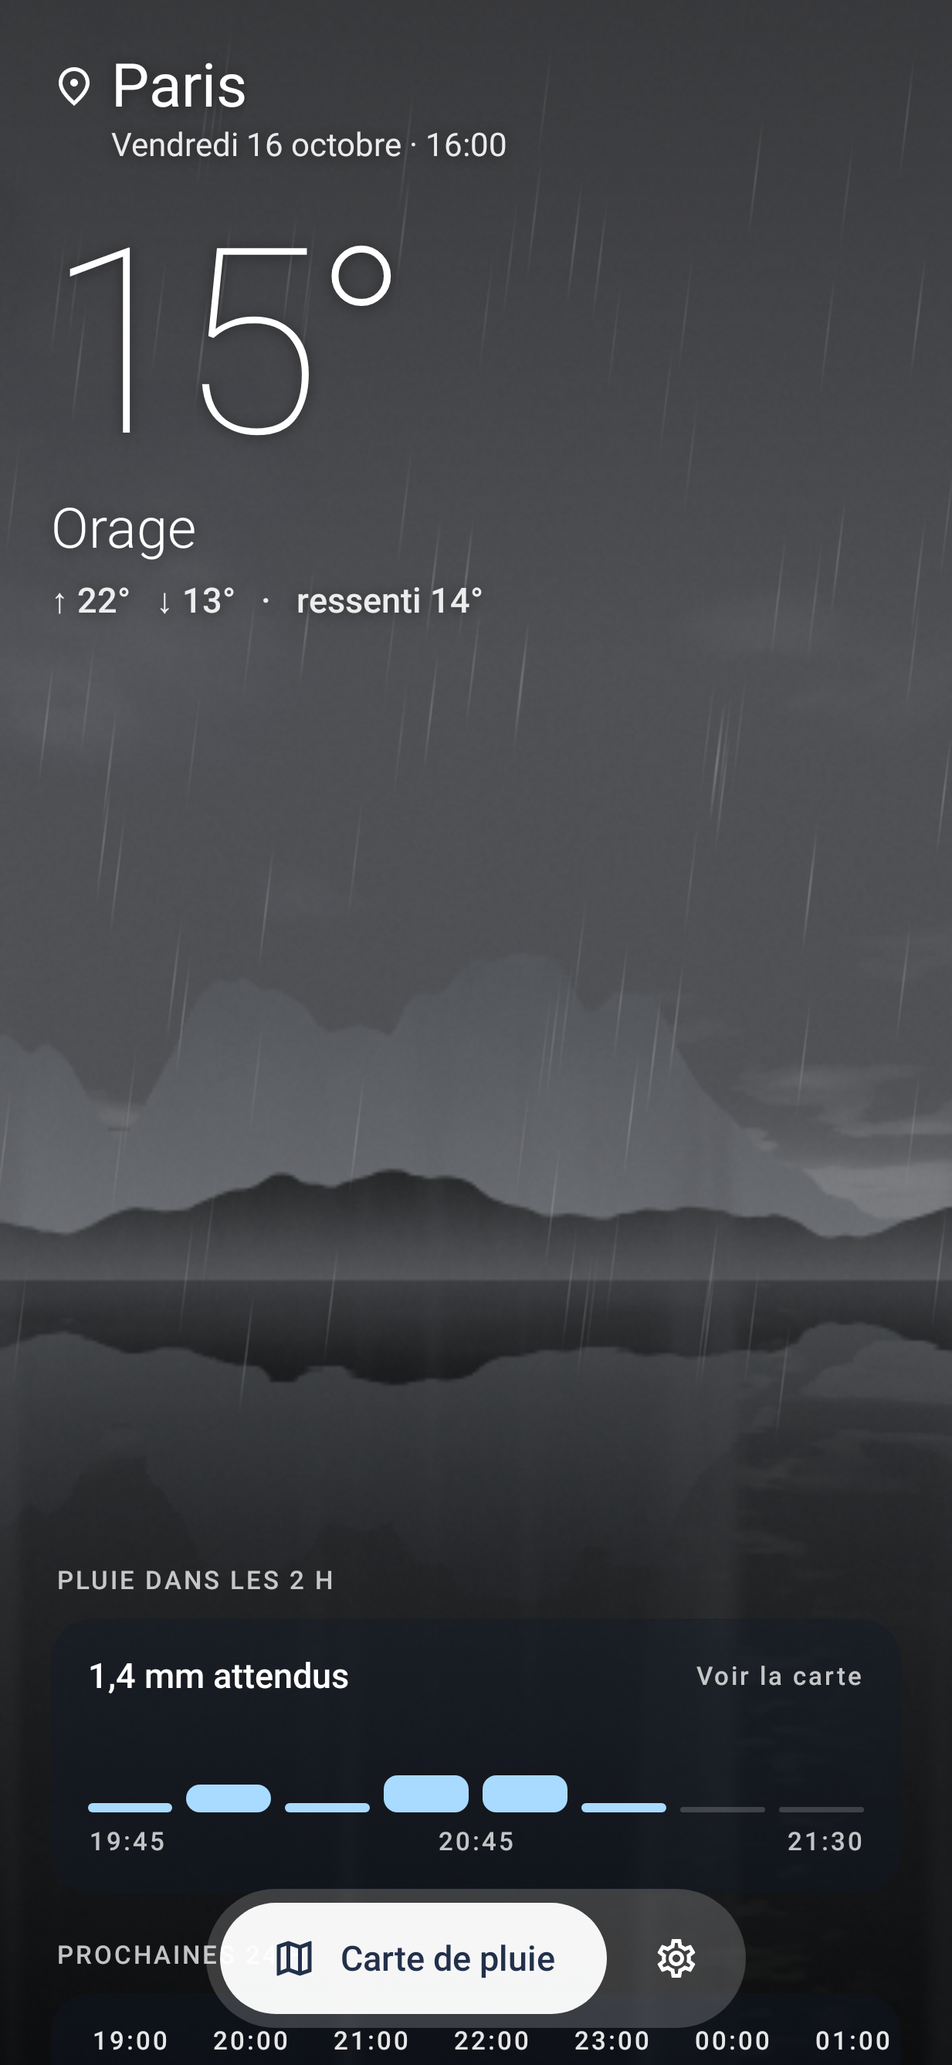
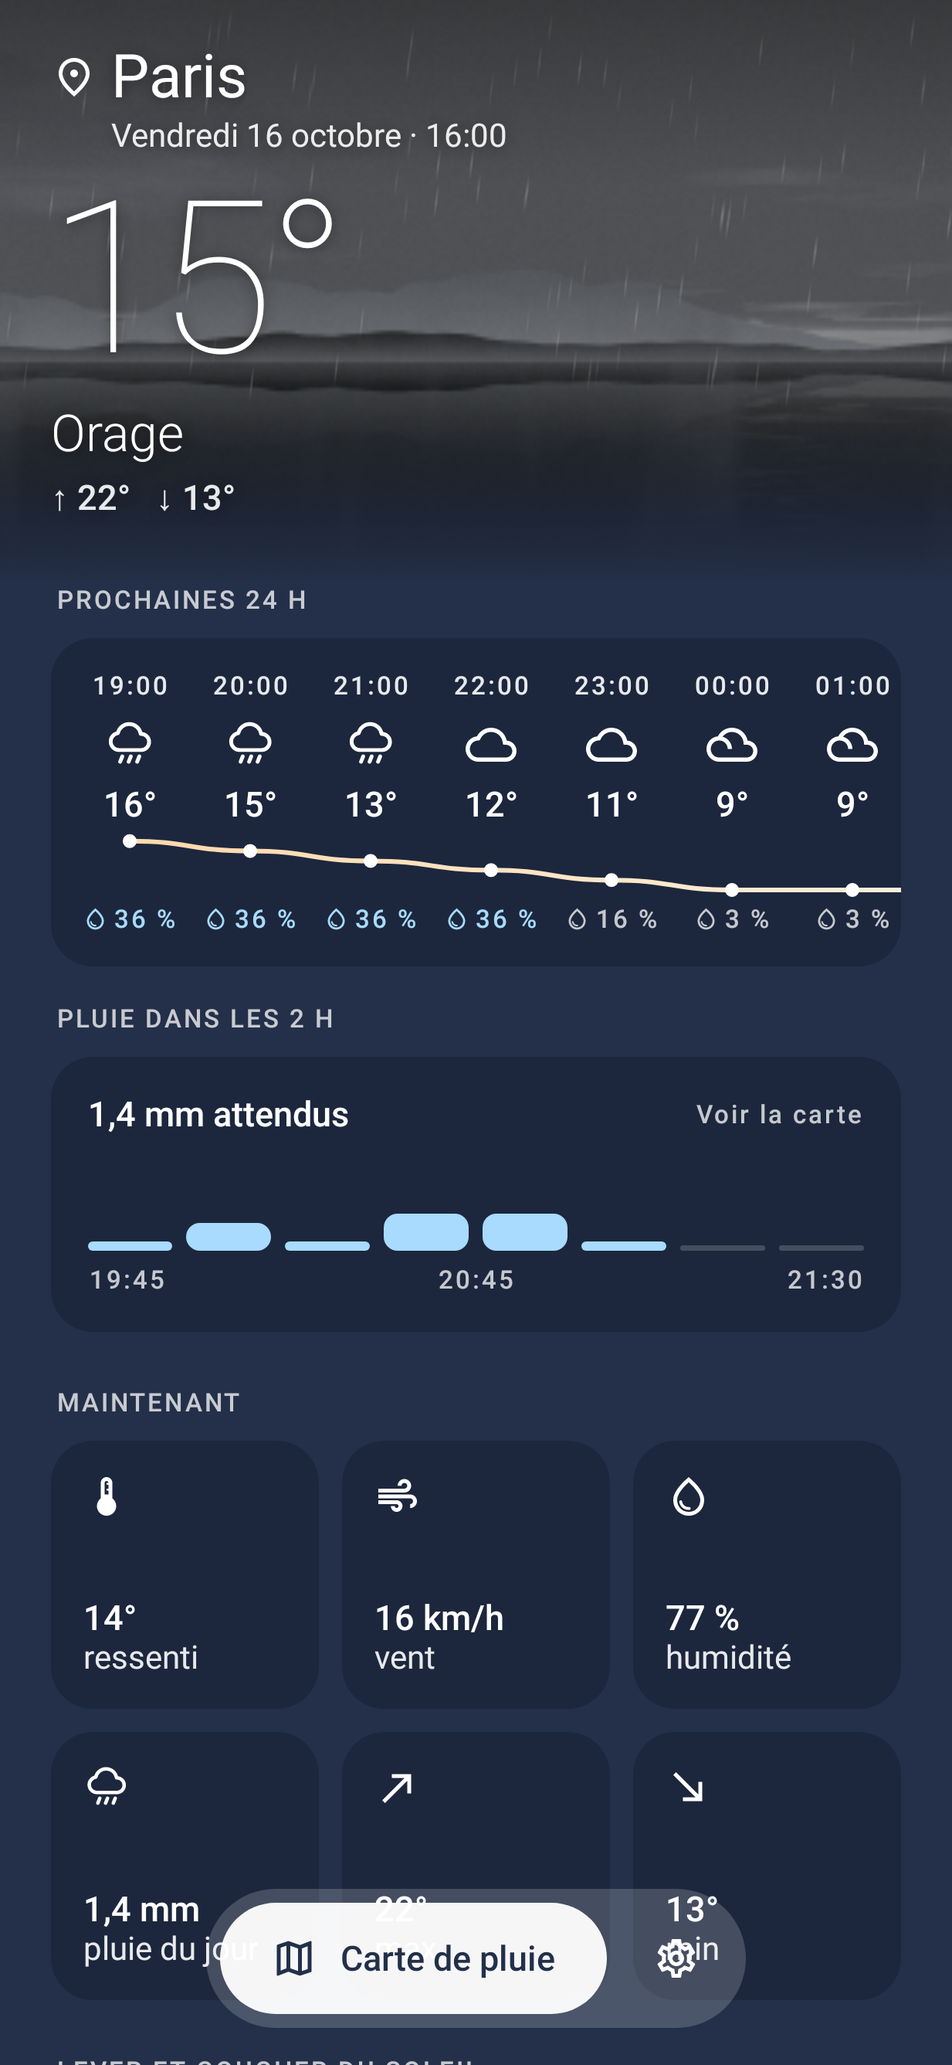
Thème Nature : paysage en bandeau d'en-tête, tuiles juste dessous
- plus de grand vide : la météo actuelle à gauche, montagnes et reflet dans le lac visibles à droite
- tuiles dans la même organisation que les autres thèmes, plus le lever et coucher du soleil

Claude-Session: https://claude.ai/code/session_01VhSL2CRbYz8j8n8SGyW4DJ

diff --git a/android-app/app/src/main/java/com/namm/meteo/ui/forecast/NatureForecast.kt b/android-app/app/src/main/java/com/namm/meteo/ui/forecast/NatureForecast.kt
@@ -10,6 +10,8 @@ import androidx.compose.foundation.layout.Column
 import androidx.compose.foundation.layout.Row
 import androidx.compose.foundation.layout.Spacer
 import androidx.compose.foundation.layout.WindowInsets
+import androidx.compose.foundation.layout.WindowInsetsSides
+import androidx.compose.foundation.layout.only
 import androidx.compose.foundation.layout.fillMaxSize
 import androidx.compose.foundation.layout.fillMaxWidth
 import androidx.compose.foundation.layout.height
@@ -23,6 +25,9 @@ import androidx.compose.foundation.shape.RoundedCornerShape
 import androidx.compose.foundation.verticalScroll
 import androidx.compose.material.icons.Icons
 import androidx.compose.material.icons.outlined.Air
+import androidx.compose.material.icons.outlined.NorthEast
+import androidx.compose.material.icons.outlined.SouthEast
+import androidx.compose.material.icons.outlined.Thermostat
 import androidx.compose.material.icons.outlined.Place
 import androidx.compose.material.icons.outlined.WaterDrop
 import androidx.compose.material3.Icon
@@ -92,138 +97,118 @@ fun NatureForecastContent(
     val condition = WeatherCondition.fromWmo(c.weatherCode)
     val today = forecast.days.firstOrNull()
     val sun = sunPosition(c.time, today?.sunrise, today?.sunset)
-    val scroll = rememberScrollState()
-    BoxWithConstraints(Modifier.fillMaxSize()) {
-        val screenHeight = maxHeight
-        val shadeDistance = constraints.maxHeight * 0.6f
-        NatureScene(
-            condition,
-            sun,
-            // Le paysage s'assombrit en faisant défiler : les tuiles restent lisibles.
-            Modifier.fillMaxSize().scrollShade { (scroll.value / shadeDistance).coerceIn(0f, 1f) * 0.45f },
-        )
-        Column(
-            Modifier
-                .fillMaxSize()
-                .verticalScroll(scroll)
-                .windowInsetsPadding(WindowInsets.safeDrawing)
-                .padding(horizontal = 22.dp),
-        ) {
-            // Premier écran : la météo dans le ciel, le paysage dégagé, les tuiles qui affleurent.
-            Column(Modifier.height(screenHeight * 0.74f).padding(top = 20.dp)) {
-                Row(
-                    Modifier.clip(RoundedCornerShape(12.dp)).clickable(onClick = onOpenSettings).padding(vertical = 2.dp),
-                    verticalAlignment = Alignment.CenterVertically,
+    Box(Modifier.fillMaxSize().background(Slate.Background)) {
+        Column(Modifier.fillMaxSize().verticalScroll(rememberScrollState())) {
+            // En-tête : le paysage (montagnes et reflet dans le lac) occupe le haut de l'écran ;
+            // la météo actuelle se lit à gauche, le paysage reste dégagé à droite.
+            Box(Modifier.fillMaxWidth()) {
+                NatureScene(condition, sun, Modifier.matchParentSize())
+                // Fondu du bas du paysage vers le fond de page, sous lequel arrivent les tuiles.
+                Box(
+                    Modifier.matchParentSize().background(
+                        Brush.verticalGradient(0.72f to Color.Transparent, 1f to Slate.Background),
+                    ),
+                )
+                Column(
+                    Modifier
+                        .windowInsetsPadding(WindowInsets.safeDrawing.only(WindowInsetsSides.Top + WindowInsetsSides.Horizontal))
+                        .padding(start = 22.dp, end = 22.dp, top = 16.dp, bottom = 28.dp),
                 ) {
-                    Icon(Icons.Outlined.Place, null, tint = Slate.Primary, modifier = Modifier.size(20.dp))
-                    Spacer(Modifier.width(6.dp))
+                    Row(
+                        Modifier.clip(RoundedCornerShape(12.dp)).clickable(onClick = onOpenSettings).padding(vertical = 2.dp),
+                        verticalAlignment = Alignment.CenterVertically,
+                    ) {
+                        Icon(Icons.Outlined.Place, null, tint = Slate.Primary, modifier = Modifier.size(20.dp))
+                        Spacer(Modifier.width(6.dp))
+                        Text(
+                            data.place.name,
+                            style = TextStyle(fontSize = 26.sp, fontWeight = FontWeight.Normal, shadow = SoftShadow),
+                            color = Slate.Primary,
+                            maxLines = 1,
+                            overflow = TextOverflow.Ellipsis,
+                        )
+                    }
                     Text(
-                        data.place.name,
-                        style = TextStyle(fontSize = 26.sp, fontWeight = FontWeight.Normal, shadow = SoftShadow),
-                        color = Slate.Primary,
-                        maxLines = 1,
-                        overflow = TextOverflow.Ellipsis,
+                        longDate(c.time),
+                        style = MaterialTheme.typography.bodyMedium.copy(shadow = SoftShadow),
+                        color = Slate.Secondary,
+                        modifier = Modifier.padding(start = 26.dp),
                     )
-                }
-                Text(
-                    longDate(c.time),
-                    style = MaterialTheme.typography.bodyMedium.copy(shadow = SoftShadow),
-                    color = Slate.Secondary,
-                    modifier = Modifier.padding(start = 26.dp),
-                )
-                Spacer(Modifier.height(12.dp))
-                Text(
-                    "${c.temperature.roundToInt()}°",
-                    style = TextStyle(fontSize = 112.sp, fontWeight = FontWeight.Thin, letterSpacing = (-4).sp, shadow = SoftShadow),
-                    color = Slate.Primary,
-                )
-                Text(
-                    // « Ensoleillé » n'a pas de sens la nuit.
-                    if (condition == WeatherCondition.CLEAR && sun.phase == DayPhase.NIGHT) "Nuit claire" else condition.label,
-                    style = TextStyle(fontSize = 24.sp, fontWeight = FontWeight.Light, shadow = SoftShadow),
-                    color = Slate.Primary,
-                )
-                Spacer(Modifier.height(6.dp))
-                Text(
-                    "↑ ${today?.tempMax?.roundToInt() ?: "–"}°   ↓ ${today?.tempMin?.roundToInt() ?: "–"}°   ·   ressenti ${c.apparentTemperature.roundToInt()}°",
-                    style = MaterialTheme.typography.titleMedium.copy(shadow = SoftShadow),
-                    color = Slate.Secondary,
-                )
-                // Mise à jour échouée : on dit de quand datent les données et pourquoi.
-                data.staleReason?.let { reason ->
-                    val time = java.time.format.DateTimeFormatter.ofPattern("HH:mm")
-                        .format(java.time.Instant.ofEpochMilli(data.fetchedAtMillis).atZone(java.time.ZoneId.systemDefault()))
-                    Spacer(Modifier.height(10.dp))
-                    Pill("données de $time · ${reason.label}")
+                    Text(
+                        "${c.temperature.roundToInt()}°",
+                        style = TextStyle(fontSize = 92.sp, fontWeight = FontWeight.Thin, letterSpacing = (-3).sp, shadow = SoftShadow),
+                        color = Slate.Primary,
+                    )
+                    Text(
+                        // « Ensoleillé » n'a pas de sens la nuit.
+                        if (condition == WeatherCondition.CLEAR && sun.phase == DayPhase.NIGHT) "Nuit claire" else condition.label,
+                        style = TextStyle(fontSize = 22.sp, fontWeight = FontWeight.Light, shadow = SoftShadow),
+                        color = Slate.Primary,
+                    )
+                    Spacer(Modifier.height(4.dp))
+                    Text(
+                        "↑ ${today?.tempMax?.roundToInt() ?: "–"}°   ↓ ${today?.tempMin?.roundToInt() ?: "–"}°",
+                        style = MaterialTheme.typography.titleMedium.copy(shadow = SoftShadow),
+                        color = Slate.Secondary,
+                    )
+                    // Mise à jour échouée : on dit de quand datent les données et pourquoi.
+                    data.staleReason?.let { reason ->
+                        val time = java.time.format.DateTimeFormatter.ofPattern("HH:mm")
+                            .format(java.time.Instant.ofEpochMilli(data.fetchedAtMillis).atZone(java.time.ZoneId.systemDefault()))
+                        Spacer(Modifier.height(10.dp))
+                        Pill("données de $time · ${reason.label}")
+                    }
                 }
             }
 
-            UpdateBanner(update, onUpdateAction)
-            Spacer(Modifier.height(16.dp))
-            SectionLabel("PLUIE DANS LES 2 H")
-            NowcastTile(forecast.nextPrecipitation, onOpenMap)
+            // Tuiles : même organisation que les autres thèmes, plus la course du soleil.
+            Column(Modifier.padding(horizontal = 22.dp)) {
+                UpdateBanner(update, onUpdateAction)
+                SectionLabel("PROCHAINES 24 H")
+                HourlyTile(forecast.hours)
 
-            Spacer(Modifier.height(20.dp))
-            SectionLabel("PROCHAINES 24 H")
-            HourlyTile(forecast.hours)
+                Spacer(Modifier.height(16.dp))
+                SectionLabel("PLUIE DANS LES 2 H")
+                NowcastTile(forecast.nextPrecipitation, onOpenMap)
 
-            Spacer(Modifier.height(20.dp))
-            SectionLabel("EN CE MOMENT")
-            Row(Modifier.fillMaxWidth().clip(TileShape).background(Slate.Tile).padding(vertical = 16.dp)) {
-                Stat(Icons.Outlined.Air, "${c.windSpeed.roundToInt()} km/h", "vent")
-                Divider()
-                Stat(Icons.Outlined.WaterDrop, "${c.humidity} %", "humidité")
-                Divider()
-                Stat(WeatherIcons.Rain, "${mm(today?.precipitationSum ?: 0.0)} mm", "pluie du jour")
+                Spacer(Modifier.height(24.dp))
+                SectionLabel("MAINTENANT")
+                TileGrid(
+                    listOf(
+                        TileData(Icons.Outlined.Thermostat, "${c.apparentTemperature.roundToInt()}°", "ressenti"),
+                        TileData(Icons.Outlined.Air, "${c.windSpeed.roundToInt()} km/h", "vent"),
+                        TileData(Icons.Outlined.WaterDrop, "${c.humidity} %", "humidité"),
+                        TileData(WeatherIcons.Rain, "${mm(today?.precipitationSum ?: 0.0)} mm", "pluie du jour"),
+                        TileData(Icons.Outlined.NorthEast, "${today?.tempMax?.roundToInt() ?: "–"}°", "max"),
+                        TileData(Icons.Outlined.SouthEast, "${today?.tempMin?.roundToInt() ?: "–"}°", "min"),
+                    ),
+                )
+
+                if (today?.sunrise != null && today.sunset != null) {
+                    Spacer(Modifier.height(24.dp))
+                    SectionLabel("LEVER ET COUCHER DU SOLEIL")
+                    SunArc(sun, today.sunrise.substringAfter('T'), today.sunset.substringAfter('T'))
+                }
+
+                Spacer(Modifier.height(24.dp))
+                SectionLabel("7 JOURS")
+                Column(Modifier.fillMaxWidth().clip(TileShape).background(Slate.Tile).padding(vertical = 6.dp)) {
+                    forecast.days.forEach { DayRow(it) }
+                }
+
+                Spacer(Modifier.height(24.dp))
+                Text(
+                    "Données Open-Meteo · sans publicité",
+                    color = Slate.Muted,
+                    style = MaterialTheme.typography.labelSmall,
+                    textAlign = TextAlign.Center,
+                    modifier = Modifier.fillMaxWidth(),
+                )
+                Spacer(Modifier.height(88.dp)) // place pour la barre du bas
             }
-
-            if (today?.sunrise != null && today.sunset != null) {
-                Spacer(Modifier.height(20.dp))
-                SectionLabel("SOLEIL")
-                SunArc(sun, today.sunrise.substringAfter('T'), today.sunset.substringAfter('T'))
-            }
-
-            Spacer(Modifier.height(20.dp))
-            SectionLabel("7 JOURS")
-            val weekMin = forecast.days.minOfOrNull { it.tempMin } ?: 0.0
-            val weekMax = forecast.days.maxOfOrNull { it.tempMax } ?: 0.0
-            Column(Modifier.fillMaxWidth().clip(TileShape).background(Slate.Tile).padding(vertical = 6.dp)) {
-                forecast.days.forEach { RangeDayRow(it, weekMin, weekMax) }
-            }
-
-            Spacer(Modifier.height(24.dp))
-            Text(
-                "Données Open-Meteo · sans publicité",
-                color = Slate.Muted,
-                style = MaterialTheme.typography.labelSmall,
-                textAlign = TextAlign.Center,
-                modifier = Modifier.fillMaxWidth(),
-            )
-            Spacer(Modifier.height(88.dp)) // place pour la barre du bas
         }
         BottomBar(onOpenMap, onOpenSettings, Modifier.align(Alignment.BottomCenter).windowInsetsPadding(WindowInsets.safeDrawing))
     }
-}
-
-/** Voile noir dont l'opacité est lue au moment du dessin (pas de recomposition au défilement). */
-private fun Modifier.scrollShade(alpha: () -> Float) = drawWithContent {
-    drawContent()
-    drawRect(Color.Black.copy(alpha = alpha()))
-}
-
-@Composable
-private fun androidx.compose.foundation.layout.RowScope.Stat(icon: ImageVector, value: String, label: String) {
-    Column(Modifier.weight(1f), horizontalAlignment = Alignment.CenterHorizontally) {
-        Icon(icon, null, tint = Slate.Secondary, modifier = Modifier.size(20.dp))
-        Spacer(Modifier.height(8.dp))
-        Text(value, color = Slate.Primary, style = MaterialTheme.typography.titleMedium)
-        Text(label, color = Slate.Muted, style = MaterialTheme.typography.bodyMedium)
-    }
-}
-
-@Composable
-private fun Divider() {
-    Box(Modifier.width(1.dp).height(64.dp).background(Slate.TileHighlight))
 }
 
 /** Course du soleil : arc pointillé du lever au coucher, position actuelle marquée. */
@@ -265,48 +250,6 @@ private fun SunArc(sun: SunPosition, sunrise: String, sunset: String) {
             Text("Lever $sunrise", color = Slate.Secondary, style = MaterialTheme.typography.bodyMedium, modifier = Modifier.weight(1f))
             Text("Coucher $sunset", color = Slate.Secondary, style = MaterialTheme.typography.bodyMedium)
         }
-    }
-}
-
-/** Jour de la semaine avec une barre min → max placée sur l'amplitude de la semaine. */
-@Composable
-private fun RangeDayRow(day: DailyForecast, weekMin: Double, weekMax: Double) {
-    val date = LocalDate.parse(day.date)
-    val track = Slate.TileHighlight
-    val colors = Slate.CurveColors
-    Row(
-        Modifier.fillMaxWidth().padding(horizontal = 16.dp, vertical = 11.dp),
-        verticalAlignment = Alignment.CenterVertically,
-    ) {
-        Text(
-            date.dayOfWeek.getDisplayName(DateStyle.SHORT, French).replaceFirstChar { it.uppercase() },
-            color = Slate.Primary,
-            modifier = Modifier.width(48.dp),
-        )
-        Icon(WeatherCondition.fromWmo(day.weatherCode).icon(), null, tint = Slate.Primary, modifier = Modifier.size(20.dp))
-        Text(
-            if (day.precipitationSum > 0) "${mm(day.precipitationSum)} mm" else "",
-            color = Slate.Rain,
-            style = MaterialTheme.typography.labelSmall,
-            textAlign = TextAlign.Center,
-            modifier = Modifier.width(60.dp),
-        )
-        Text("${day.tempMin.roundToInt()}°", color = Slate.Secondary, textAlign = TextAlign.End, modifier = Modifier.width(32.dp))
-        Canvas(Modifier.weight(1f).height(6.dp).padding(horizontal = 10.dp)) {
-            val range = (weekMax - weekMin).coerceAtLeast(1.0)
-            val start = ((day.tempMin - weekMin) / range).toFloat() * size.width
-            val end = ((day.tempMax - weekMin) / range).toFloat() * size.width
-            val stroke = size.height
-            drawLine(track, Offset(0f, stroke / 2), Offset(size.width, stroke / 2), stroke, StrokeCap.Round)
-            drawLine(
-                Brush.horizontalGradient(colors.reversed(), 0f, size.width),
-                Offset(start, stroke / 2),
-                Offset(end.coerceAtLeast(start + 1f), stroke / 2),
-                stroke,
-                StrokeCap.Round,
-            )
-        }
-        Text("${day.tempMax.roundToInt()}°", color = Slate.Primary, modifier = Modifier.width(32.dp))
     }
 }
 

diff --git a/android-app/app/src/main/java/com/namm/meteo/ui/forecast/ForecastScreen.kt b/android-app/app/src/main/java/com/namm/meteo/ui/forecast/ForecastScreen.kt
@@ -335,10 +335,10 @@ internal fun NowcastTile(steps: List<PrecipitationStep>, onOpenMap: () -> Unit) 
     }
 }
 
-private data class TileData(val icon: ImageVector, val value: String, val label: String)
+internal data class TileData(val icon: ImageVector, val value: String, val label: String)
 
 @Composable
-private fun TileGrid(tiles: List<TileData>) {
+internal fun TileGrid(tiles: List<TileData>) {
     Column(verticalArrangement = Arrangement.spacedBy(10.dp)) {
         tiles.chunked(3).forEachIndexed { r, row ->
             Row(horizontalArrangement = Arrangement.spacedBy(10.dp)) {
@@ -365,7 +365,7 @@ private fun TileGrid(tiles: List<TileData>) {
 }
 
 @Composable
-private fun DayRow(day: DailyForecast) {
+internal fun DayRow(day: DailyForecast) {
     val date = LocalDate.parse(day.date)
     Row(
         Modifier.fillMaxWidth().padding(horizontal = 16.dp, vertical = 10.dp),

diff --git a/CLAUDE.md b/CLAUDE.md
@@ -67,7 +67,7 @@ echo "robolectricRepo=https://maven-central.storage-download.googleapis.com/mave
 ## Conventions
 - Code et commentaires en français pour les libellés UI ; noms de code en anglais.
 - Couches : `ui` (Compose + ViewModel) → `domain` (modèles) → `data` (remote / repository). DI manuelle dans `MeteoApp`.
-- Design **sobre « ardoise »** (voir `ui/theme/Theme.kt`) : thèmes `DarkSlate` (fond `#353A45`, tuiles `#2F333D`, bleu pluie `#8FB3D9`) et `LightSlate` (fond `#E9EBEF`, tuiles `#F8F9FA`, bleu `#3F7CC4`), choix Système/Sombre/Clair dans Paramètres. Toujours passer par `Slate.X` (couleurs du thème courant, lisibles seulement dans un composable : les capturer avant un `Canvas`). Grandes typos fines, pastilles discrètes. Thèmes colorés en plus d'Ardoise (`ThemeStyle`, réglage « Apparence ») : `SkySlate` (Ciel, dégradé bleu, tuiles en verre dépoli), `PastelSlate` (fond crème, carte héros dégradée, tuiles teintées), `AuroraSlate` (indigo avec halos corail/violet, accents cyan) ; `NatureSlate` (Nature : accueil refondu `NatureForecastContent` sur un paysage zen dessiné en code, `NatureScene` — image calculée pixel par pixel en basse définition puis agrandie avec lissage (`SceneRenderer` : ciel selon `sunPosition` aube/jour/crépuscule/nuit, nuages en bruit fractal vus en perspective, deux chaînes de montagnes dans la brume, lac qui reflète, voiles de pluie, brouillard ; étoiles, pluie fine et neige dessinées par-dessus) ; rendu réaliste et sobre, pas de formes vectorielles « dessin animé » ; aucune image embarquée ; captures `nature_*`) ; le mode Système/Sombre/Clair ne concerne qu'Ardoise. Fond d'écran via `Modifier.screenBackground()` (jamais `background(Slate.Background)`), dégradés/teintes via `Slate.HeroBrush`, `TileTints`, `CurveColors`, `ButtonBrush`. Les widgets gardent les palettes Ardoise (`ThemeStyle.widgetDark`). Les captures Roborazzi couvrent tous les thèmes. Le site reprend la palette sombre.
+- Design **sobre « ardoise »** (voir `ui/theme/Theme.kt`) : thèmes `DarkSlate` (fond `#353A45`, tuiles `#2F333D`, bleu pluie `#8FB3D9`) et `LightSlate` (fond `#E9EBEF`, tuiles `#F8F9FA`, bleu `#3F7CC4`), choix Système/Sombre/Clair dans Paramètres. Toujours passer par `Slate.X` (couleurs du thème courant, lisibles seulement dans un composable : les capturer avant un `Canvas`). Grandes typos fines, pastilles discrètes. Thèmes colorés en plus d'Ardoise (`ThemeStyle`, réglage « Apparence ») : `SkySlate` (Ciel, dégradé bleu, tuiles en verre dépoli), `PastelSlate` (fond crème, carte héros dégradée, tuiles teintées), `AuroraSlate` (indigo avec halos corail/violet, accents cyan) ; `NatureSlate` (Nature : accueil `NatureForecastContent` — paysage zen en bandeau d’en-tête (texte à gauche, montagnes et reflet visibles à droite, fondu vers le fond de page), puis les tuiles des autres thèmes + « Lever et coucher du soleil » ; paysage dessiné en code, `NatureScene` — image calculée pixel par pixel en basse définition puis agrandie avec lissage (`SceneRenderer` : ciel selon `sunPosition` aube/jour/crépuscule/nuit, nuages en bruit fractal vus en perspective, deux chaînes de montagnes dans la brume, lac qui reflète, voiles de pluie, brouillard ; étoiles, pluie fine et neige dessinées par-dessus) ; rendu réaliste et sobre, pas de formes vectorielles « dessin animé » ; aucune image embarquée ; captures `nature_*`) ; le mode Système/Sombre/Clair ne concerne qu'Ardoise. Fond d'écran via `Modifier.screenBackground()` (jamais `background(Slate.Background)`), dégradés/teintes via `Slate.HeroBrush`, `TileTints`, `CurveColors`, `ButtonBrush`. Les widgets gardent les palettes Ardoise (`ThemeStyle.widgetDark`). Les captures Roborazzi couvrent tous les thèmes. Le site reprend la palette sombre.
 - Aucune dépendance publicitaire, analytics ou Google Play Services (compatibilité F-Droid).
 - Réseau : toujours `Network.client` / `Network.uncachedClient` (jamais `OkHttpClient()`), User-Agent `Network.userAgent`.
 - Tests : fixtures dans `app/src/test/resources/` (`forecast.json`, `geocoding.json` réelles — bloc `hourly` de `forecast.json` complété ; `grid.json` au format multi-points) ; tout nouvel écran a un test Roborazzi (`ScreenshotTest`, application neutre `android.app.Application` pour éviter WorkManager).
